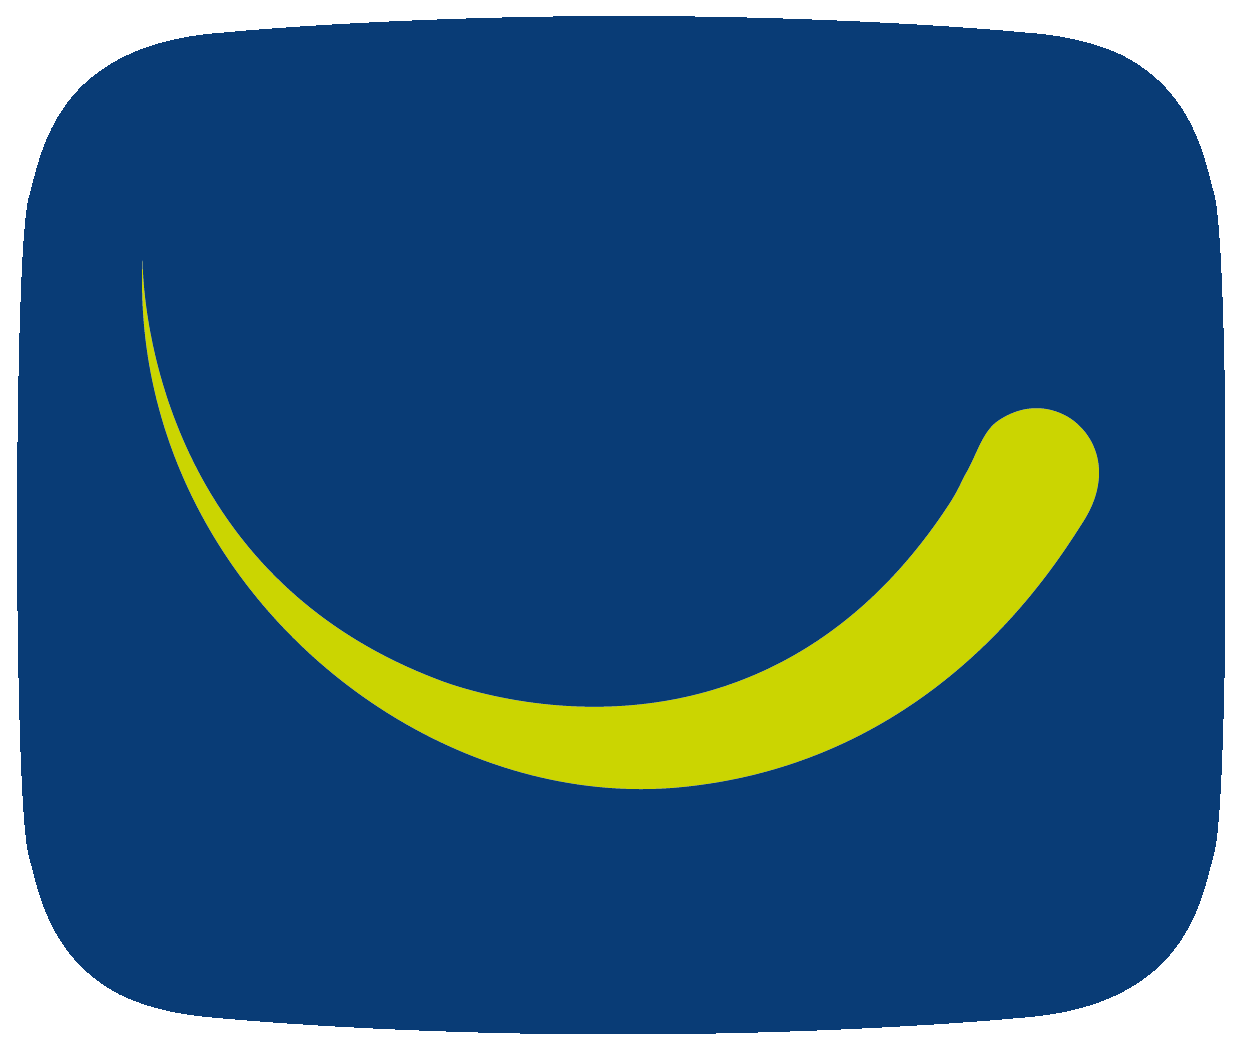
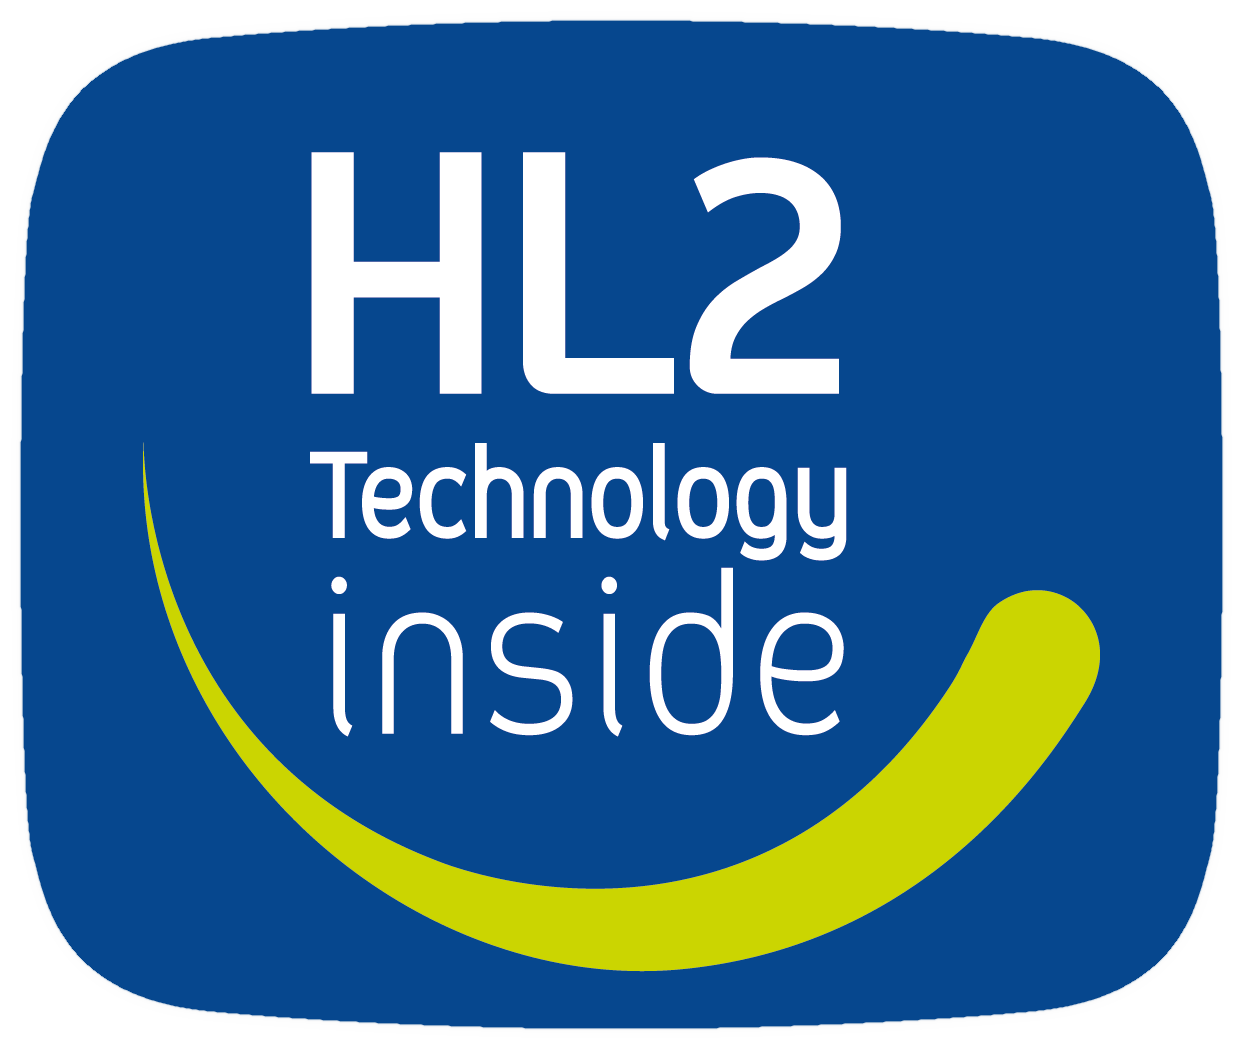
Refactor jumbotron
Add logo in jumbotron
Fix jumbotron font-size for small screen
Fix jumbotron color bg

diff --git a/_layouts/default.html b/_layouts/default.html
@@ -8,10 +8,12 @@
     {% endif %}
 
     <header class="navbar navbar-expand-lg navbar-light bg-light fixed-top border-bottom">
-      <a class="navbar-brand hl2-logo text-primary" href="/">
-        <img src="{% asset 'hl2.png' @path %}" width="30" height="30" class="d-inline-block align-top" alt="">
+      {% unless page.jumboLogo %}
+      <a class="navbar-brand hl2-logo" href="/">
+        <img src="{% asset 'hl2-stamp.png' @path %}" width="30" height="30" class="d-inline-block align-top" alt="">
         HL2
       </a>
+      {% endunless %}
 
       <button class="navbar-toggler" type="button" data-toggle="collapse" data-target="#navbarContent">
         <span class="navbar-toggler-icon"></span>
@@ -48,6 +50,9 @@
         <div class="container-fluid text-white text-center">
           <div class="row">
             <div class="col-12 col-lg-7">
+              {% if page.jumboLogo %}
+              <img src="{% asset 'hl2.png' @path %}" width="217" class="img-fluid m-3" alt="" />
+              {% endif %}
               <h1 class="display-4">
                   {{ page.jumboTitle | default: page.title }}
               </h1>

diff --git a/_assets/css/main.scss b/_assets/css/main.scss
@@ -20,12 +20,18 @@ body {
 
 /* Jumbotron */
 .jumbotron {
-    background-color: #193c72;
+    background-color: $hl2-blue;
 
     @include media-breakpoint-up(lg) {
         background-image: asset_url('background.svg');
         background-repeat: no-repeat;
         background-position: right top;
+    }
+
+    .display-4 {
+        @include media-breakpoint-down(sm) {
+            font-size: 3rem;
+        }
     }
 }
 
@@ -33,6 +39,7 @@ body {
 .hl2-logo {
     font-family: Aeroportal, Open Sans, Arial, sans-serif;
     font-weight: $font-weight-bold;
+    color: $hl2-blue;
 }
 
 #products {

diff --git a/_pages/index.html b/_pages/index.html
@@ -1,6 +1,7 @@
 ---
 title: Accueil
 jumboTitle: Connecter intelligemment les objets est notre raison d’être
+jumboLogo: true
 description: Intégrez nos technologies pour réduire le temps, le coût et les risques liés à la conception d'applications IoT novatrices !
 layout: default
 permalink: /

diff --git a/_assets/css/variables.scss b/_assets/css/variables.scss
@@ -1,2 +1,5 @@
 // Bootstrap
 $primary: #5594DA;
+
+// HL2
+$hl2-blue: #093C76 !important;
